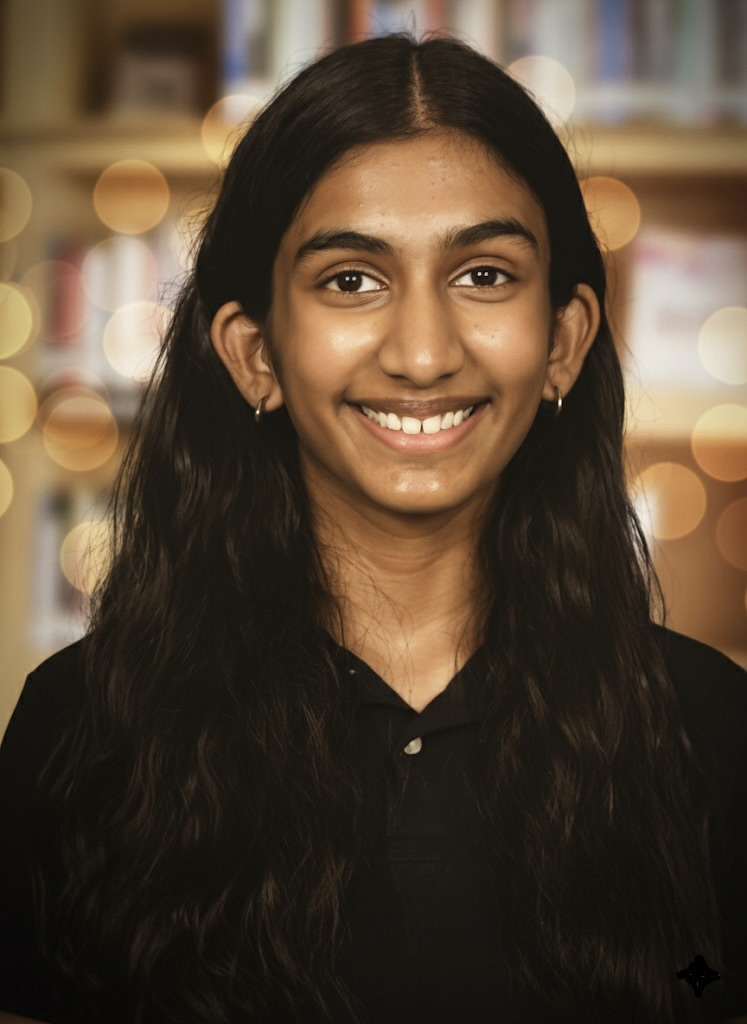
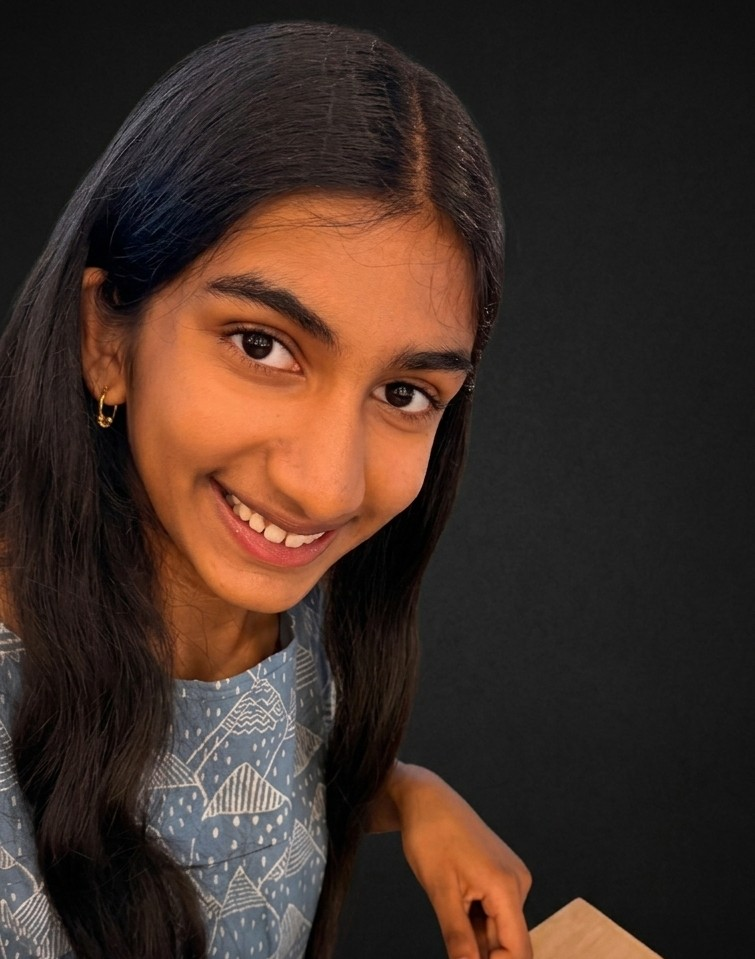
Update founder photos, registration options, and comment out stats
- Add MJ & Claire photos, cache-bust Sahana photo
- Comment out stats section on homepage
- Remove Coming Soon date from events
- Simplify registration: age 13-18+, remove workshop/admin interests
- Change mentoring to small group, keep only Reading Buddies program
- Limit grade levels to 1st-3rd grade

diff --git a/register.html b/register.html
@@ -200,12 +200,12 @@
                                         <label class="form-label" for="vol-age">Age Group *</label>
                                         <select id="vol-age" name="age_group" class="form-select" required>
                                             <option value="">Select your age group</option>
-                                            <option value="13-17">13-17 (Teen)</option>
-                                            <option value="18-24">18-24 (Young Adult)</option>
-                                            <option value="25-34">25-34</option>
-                                            <option value="35-44">35-44</option>
-                                            <option value="45-54">45-54</option>
-                                            <option value="55+">55+</option>
+                                            <option value="13">13</option>
+                                            <option value="14">14</option>
+                                            <option value="15">15</option>
+                                            <option value="16">16</option>
+                                            <option value="17">17</option>
+                                            <option value="18+">18+</option>
                                         </select>
                                     </div>
 
@@ -214,7 +214,7 @@
                                         <div class="checkbox-group">
                                             <label class="checkbox-item">
                                                 <input type="checkbox" name="interests[]" value="reading_buddy">
-                                                <span>Reading Buddy (1-on-1 mentoring)</span>
+                                                <span>Reading Buddy (Small Group Mentoring)</span>
                                             </label>
                                             <label class="checkbox-item">
                                                 <input type="checkbox" name="interests[]" value="book_sorting">
@@ -223,14 +223,6 @@
                                             <label class="checkbox-item">
                                                 <input type="checkbox" name="interests[]" value="event_support">
                                                 <span>Event Support</span>
-                                            </label>
-                                            <label class="checkbox-item">
-                                                <input type="checkbox" name="interests[]" value="workshop_helper">
-                                                <span>Workshop Helper</span>
-                                            </label>
-                                            <label class="checkbox-item">
-                                                <input type="checkbox" name="interests[]" value="admin">
-                                                <span>Administrative Support</span>
                                             </label>
                                         </div>
                                     </div>
@@ -274,9 +266,7 @@
                                         <label class="form-label" for="prog-program">Program *</label>
                                         <select id="prog-program" name="program" class="form-select" required>
                                             <option value="">Select a program</option>
-                                            <option value="reading_buddies">Reading Buddies (1-on-1 Mentoring)</option>
-                                            <option value="literacy_workshop">Literacy Workshops</option>
-                                            <option value="both">Both Programs</option>
+                                            <option value="reading_buddies">Reading Buddies (Small Group Mentoring)</option>
                                         </select>
                                     </div>
 
@@ -315,15 +305,9 @@
                                         <label class="form-label" for="prog-grade">Grade Level</label>
                                         <select id="prog-grade" name="grade_level" class="form-select">
                                             <option value="">Select grade level</option>
-                                            <option value="prek">Pre-K</option>
-                                            <option value="k">Kindergarten</option>
                                             <option value="1">1st Grade</option>
                                             <option value="2">2nd Grade</option>
                                             <option value="3">3rd Grade</option>
-                                            <option value="4">4th Grade</option>
-                                            <option value="5">5th Grade</option>
-                                            <option value="6-8">Middle School (6-8)</option>
-                                            <option value="9-12">High School (9-12)</option>
                                         </select>
                                     </div>
 

diff --git a/about.html b/about.html
@@ -137,31 +137,21 @@
 
                 <div class="team-grid stagger-children">
                     <div class="team-card animate-on-scroll animate-fade-up">
-                        <img src="images/Sahana.jpeg" alt="Sahana - Founder" class="team-photo">
+                        <img src="images/Sahana.jpeg?v=2" alt="Sahana - Founder" class="team-photo">
                         <h4>Sahana</h4>
                         <p class="team-role">Founder</p>
                         <p class="team-bio">Passionate about education equity and making reading accessible to all children in our community.</p>
                     </div>
 
                     <div class="team-card animate-on-scroll animate-fade-up">
-                        <div class="team-photo-placeholder">
-                            <svg viewBox="0 0 24 24" fill="none" stroke="currentColor" stroke-width="1.5">
-                                <path d="M20 21v-2a4 4 0 0 0-4-4H8a4 4 0 0 0-4 4v2"></path>
-                                <circle cx="12" cy="7" r="4"></circle>
-                            </svg>
-                        </div>
+                        <img src="images/MJ.jpeg" alt="MJ - Founder" class="team-photo">
                         <h4>MJ</h4>
                         <p class="team-role">Founder</p>
                         <p class="team-bio">Dedicated to organizing community outreach and building partnerships with local schools and libraries.</p>
                     </div>
 
                     <div class="team-card animate-on-scroll animate-fade-up">
-                        <div class="team-photo-placeholder">
-                            <svg viewBox="0 0 24 24" fill="none" stroke="currentColor" stroke-width="1.5">
-                                <path d="M20 21v-2a4 4 0 0 0-4-4H8a4 4 0 0 0-4 4v2"></path>
-                                <circle cx="12" cy="7" r="4"></circle>
-                            </svg>
-                        </div>
+                        <img src="images/Claire.jpeg" alt="Claire - Founder" class="team-photo">
                         <h4>Claire</h4>
                         <p class="team-role">Founder</p>
                         <p class="team-bio">Leads the Reading Buddies program and develops engaging literacy activities for young readers.</p>

diff --git a/index.html b/index.html
@@ -88,29 +88,30 @@
             </div>
         </section>
 
-        <!-- Stats Section -->
+        <!-- Stats Section (commented out for now)
         <section class="section">
             <div class="container">
                 <div class="stats">
                     <div class="stat-item animate-on-scroll">
-                        <span class="stat-number">500+</span>
+                        <span class="stat-number">10+</span>
                         <span class="stat-label">Books Donated</span>
                     </div>
                     <div class="stat-item animate-on-scroll">
-                        <span class="stat-number">200+</span>
+                        <span class="stat-number">0+</span>
                         <span class="stat-label">Children Helped</span>
                     </div>
                     <div class="stat-item animate-on-scroll">
-                        <span class="stat-number">15+</span>
+                        <span class="stat-number">0+</span>
                         <span class="stat-label">Community Events</span>
                     </div>
                     <div class="stat-item animate-on-scroll">
-                        <span class="stat-number">50+</span>
+                        <span class="stat-number">0+</span>
                         <span class="stat-label">Volunteers</span>
                     </div>
                 </div>
             </div>
         </section>
+        -->
 
         <!-- Book Divider -->
         <div class="book-divider">
